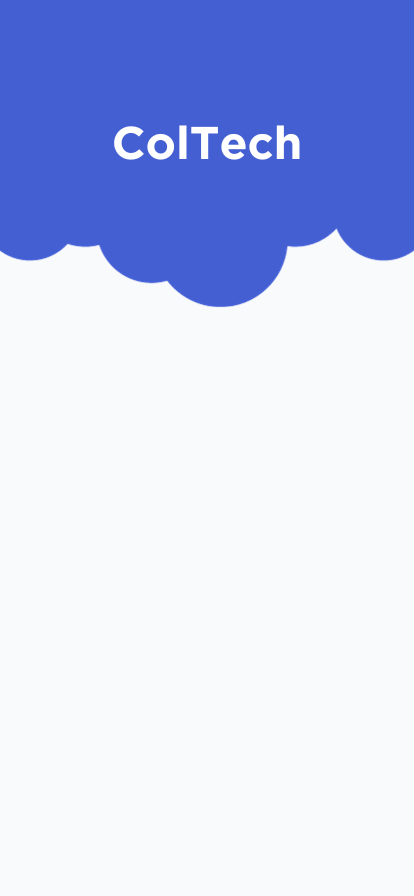
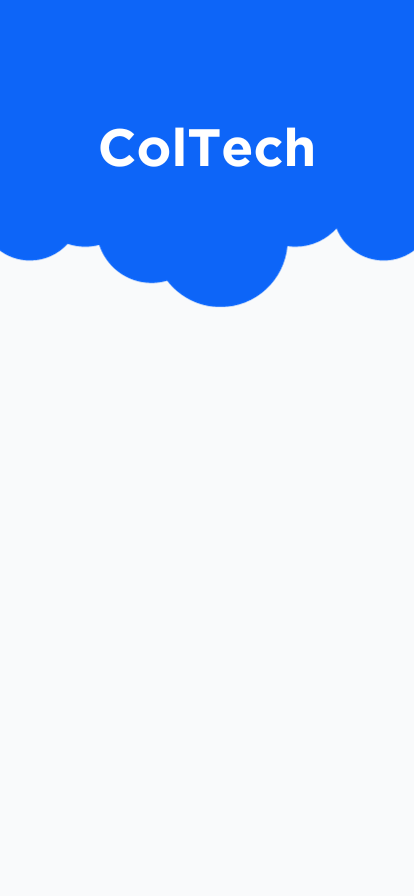
ad

Changed region(s): [[0.0, 0.0, 1.0, 0.3438]]

diff --git a/lib/registerAs.dart b/lib/registerAs.dart
@@ -1,0 +1,64 @@
+import 'package:flutter/material.dart';
+
+class RegisterAs extends StatefulWidget {
+  @override
+  _RegisterAsState createState() => _RegisterAsState();
+}
+
+class _RegisterAsState extends State<RegisterAs> {
+  @override
+  Widget build(BuildContext context) {
+    return Scaffold(
+        appBar: AppBar(
+          backgroundColor: Color(0XFF0d65f8),
+          title: Text('User Roles'),
+        ),
+        body: Center(
+          child: Column(
+            mainAxisAlignment: MainAxisAlignment.center,
+            children: [
+              ElevatedButton(
+                onPressed: () {
+                  // Implement registration logic for clients
+                  print('Registered as Client');
+                },
+                style: ElevatedButton.styleFrom(
+                  backgroundColor: Color(0xFF0d65f8), // Background color
+                ),
+                child: Text('Register as Client',
+
+                ),
+
+              ),
+              ElevatedButton(
+                onPressed: () {
+                  // Implement login logic for expertise
+                  print('Registered in as Expertise');
+                },
+                style: ElevatedButton.styleFrom(
+                  backgroundColor: Color(0xFF0d65f8), // Background color
+                ),
+                child: Text(
+                    'Register as Expertise',
+
+                ),
+              ),
+              ElevatedButton(
+                onPressed: () {
+                  // Implement login logic for admin
+                  print('Registered in as Admin');
+                },
+                style: ElevatedButton.styleFrom(
+                  backgroundColor: Color(0xFF0d65f8), // Background color
+                ),
+                child: Text(
+                    'Register as Admin',
+                  ),
+              ),
+            ],
+          ),
+        ),
+      );
+
+  }
+}

diff --git a/lib/register.dart b/lib/register.dart
@@ -72,14 +72,8 @@ class _MyRegisterState extends State<MyRegister> {
       child: Scaffold(
         backgroundColor: Colors.transparent,
         appBar: AppBar(
-          title: Text(
-            'UniExcellence',
-            style: TextStyle(
-              fontWeight: FontWeight.bold,
-              fontSize: 24,
-            ),
-          ),
-          backgroundColor: Colors.blueAccent,
+          elevation: 0,
+          backgroundColor: Color(0XFF0d65f8),
           centerTitle: true,
           leading: IconButton(
             icon: Icon(Icons.arrow_back),
@@ -188,7 +182,7 @@ class _MyRegisterState extends State<MyRegister> {
                                   },
                                   child: Text('Register'),
                                   style: ElevatedButton.styleFrom(
-                                    backgroundColor: Colors.blueAccent,
+                                    backgroundColor: Color(0XFF0d65f8),
                                   ),
                                 ),
                               ),

diff --git a/lib/main.dart b/lib/main.dart
@@ -1,4 +1,5 @@
 import 'package:coltech/firebase_options.dart';
+import 'package:coltech/registerAs.dart';
 import 'package:firebase_auth/firebase_auth.dart';
 import 'package:firebase_core/firebase_core.dart';
 import 'package:flutter/material.dart';
@@ -21,6 +22,7 @@ Future<void> main() async {
       'register': (context) => MyRegister(),
       'login': (context) => MyLogin(),
       'welcome': (context) => Welcome(),
+      'registeras':(context) => RegisterAs(),
       'reset': (context) => ResetPassword(),
       'MyProfile': (context) => FutureBuilder<User?>(
         future: FirebaseAuth.instance.authStateChanges().first,

diff --git a/lib/login.dart b/lib/login.dart
@@ -200,7 +200,7 @@ class _MyLoginState extends State<MyLogin> {
                                     Spacer(),//to push it to the right side of the row
                                     TextButton(
                                       onPressed: () {
-                                        Navigator.pushNamed(context, 'register');
+                                        Navigator.pushNamed(context, 'registeras');
                                       },
                                       child: Text(
                                         'Create Account',
